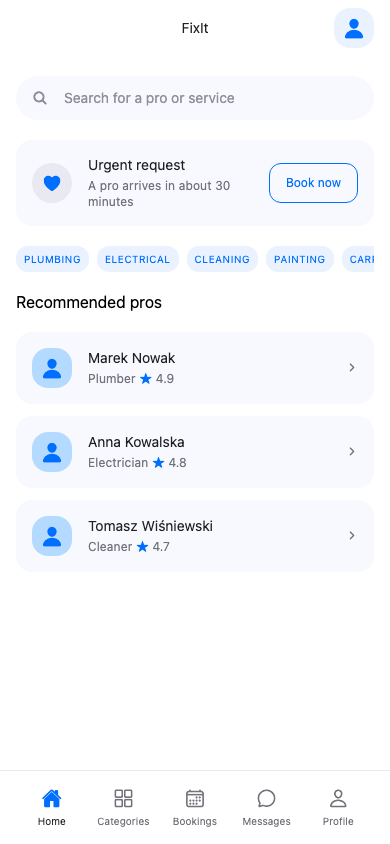
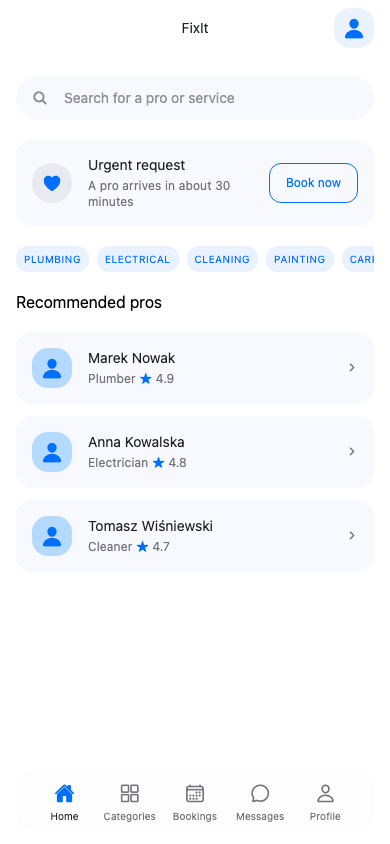
feat: float the TabBar as glass, and glass the Header back button
TabBar is now a Liquid Glass pill that floats above scroll content
(position: absolute) instead of a solid docked bar, so content is
visibly blurred through it while scrolling — the iOS 26 tab-bar
pattern. Header's back chevron sits in a small glass circle.

Screens now reserve bottom clearance via useFloatingTabBarClearance()
so cards and the sticky "Book appointment" button never end up hidden
under the floating bar.

diff --git a/src/components/TabBar/TabBar.tsx b/src/components/TabBar/TabBar.tsx
@@ -1,9 +1,10 @@
 import { Ionicons } from '@expo/vector-icons';
 import type { ComponentProps } from 'react';
-import { Pressable, StyleSheet, Text, View } from 'react-native';
+import { Pressable, StyleSheet, Text } from 'react-native';
 import { useSafeAreaInsets } from 'react-native-safe-area-context';
 
-import { colors, spacing, typography } from '@/theme';
+import { GlassSurface } from '@/components/GlassSurface';
+import { colors, radii, shadows, spacing, typography } from '@/theme';
 
 type IconName = ComponentProps<typeof Ionicons>['name'];
 
@@ -20,12 +21,25 @@ export type TabBarProps = {
   onChange: (key: string) => void;
 };
 
+/** Fixed content height of the bar (icon + gap + label), safe-area padding excluded. */
+const BAR_HEIGHT = 62;
+const BOTTOM_OFFSET = spacing.sm;
+
+/** How much bottom padding a screen needs so content doesn't scroll under the floating bar. */
+export function useFloatingTabBarClearance() {
+  const insets = useSafeAreaInsets();
+  return insets.bottom + BOTTOM_OFFSET + BAR_HEIGHT + spacing.md;
+}
+
+/** Floats as a Liquid Glass pill above scrollable content, iOS 26 tab-bar style. */
 export function TabBar({ items, activeKey, onChange }: TabBarProps) {
-  // Extra padding for the iOS home indicator; Android's inset is enough alone.
   const insets = useSafeAreaInsets();
 
   return (
-    <View style={[styles.container, { paddingBottom: Math.max(insets.bottom, spacing.md) }]}>
+    <GlassSurface
+      style={[styles.container, { bottom: insets.bottom + BOTTOM_OFFSET }]}
+      glassEffectStyle="regular"
+    >
       {items.map((item) => {
         const isActive = item.key === activeKey;
         return (
@@ -47,18 +61,21 @@ export function TabBar({ items, activeKey, onChange }: TabBarProps) {
           </Pressable>
         );
       })}
-    </View>
+    </GlassSurface>
   );
 }
 
 const styles = StyleSheet.create({
   container: {
+    position: 'absolute',
+    left: spacing.md,
+    right: spacing.md,
+    height: BAR_HEIGHT,
     flexDirection: 'row',
-    borderTopWidth: StyleSheet.hairlineWidth,
-    borderTopColor: colors.surfaceMedium,
-    backgroundColor: colors.white,
-    paddingTop: spacing.md,
+    borderRadius: radii.lg,
+    paddingVertical: spacing.sm,
     paddingHorizontal: spacing.md,
+    ...shadows.raised,
   },
   tab: {
     flex: 1,

diff --git a/src/components/Header/Header.tsx b/src/components/Header/Header.tsx
@@ -2,7 +2,8 @@ import { Ionicons } from '@expo/vector-icons';
 import type { ReactNode } from 'react';
 import { Pressable, StyleSheet, Text, View } from 'react-native';
 
-import { colors, spacing, typography } from '@/theme';
+import { GlassSurface } from '@/components/GlassSurface';
+import { colors, radii, shadows, spacing, typography } from '@/theme';
 
 export type HeaderProps = {
   title: string;
@@ -23,7 +24,9 @@ export function Header({ title, onBackPress, rightElement }: HeaderProps) {
             hitSlop={8}
             onPress={onBackPress}
           >
-            <Ionicons name="chevron-back" size={20} color={colors.textPrimary} />
+            <GlassSurface style={styles.backButton}>
+              <Ionicons name="chevron-back" size={18} color={colors.textPrimary} />
+            </GlassSurface>
           </Pressable>
         ) : null}
       </View>
@@ -50,6 +53,18 @@ const styles = StyleSheet.create({
   side: {
     width: SIDE_WIDTH,
     justifyContent: 'center',
+  },
+  backButton: {
+    width: 32,
+    height: 32,
+    borderRadius: radii.round,
+    alignItems: 'center',
+    justifyContent: 'center',
+    // The glass fill alone is nearly invisible on a white header — a rim
+    // makes the pill readable even where there's nothing behind it to blur.
+    borderWidth: StyleSheet.hairlineWidth,
+    borderColor: colors.surfaceMedium,
+    ...shadows.card,
   },
   rightSide: {
     alignItems: 'flex-end',

diff --git a/src/screens/HomeScreen.tsx b/src/screens/HomeScreen.tsx
@@ -8,12 +8,14 @@ import { CategoryList } from '@/components/CategoryList';
 import { Header } from '@/components/Header';
 import { ProCard } from '@/components/ProCard';
 import { SearchBar } from '@/components/SearchBar';
+import { useFloatingTabBarClearance } from '@/components/TabBar';
 import { categories, recommendedPros } from '@/data/mockData';
 import { useResponsiveLayout } from '@/hooks/useResponsiveLayout';
 import { colors, radii, spacing, typography } from '@/theme';
 
 export function HomeScreen() {
   const { contentWidth, cardWidth } = useResponsiveLayout();
+  const tabBarClearance = useFloatingTabBarClearance();
   const [query, setQuery] = useState('');
   const [selectedCategoryId, setSelectedCategoryId] = useState<string>();
 
@@ -21,7 +23,9 @@ export function HomeScreen() {
     <View style={styles.screen}>
       <Header title="FixIt" rightElement={<Avatar />} />
 
-      <ScrollView contentContainerStyle={styles.scrollContent}>
+      <ScrollView
+        contentContainerStyle={[styles.scrollContent, { paddingBottom: tabBarClearance }]}
+      >
         <View style={[styles.content, { width: contentWidth }]}>
           <SearchBar
             value={query}
@@ -70,7 +74,6 @@ const styles = StyleSheet.create({
   },
   scrollContent: {
     alignItems: 'center',
-    paddingBottom: spacing.xl,
   },
   content: {
     gap: spacing.lg,

diff --git a/src/screens/CategoriesScreen.tsx b/src/screens/CategoriesScreen.tsx
@@ -4,19 +4,23 @@ import { ScrollView, StyleSheet, Text, View } from 'react-native';
 import { Header } from '@/components/Header';
 import { ListItem } from '@/components/ListItem';
 import { SearchBar } from '@/components/SearchBar';
+import { useFloatingTabBarClearance } from '@/components/TabBar';
 import { categories } from '@/data/mockData';
 import { useResponsiveLayout } from '@/hooks/useResponsiveLayout';
 import { colors, spacing, typography } from '@/theme';
 
 export function CategoriesScreen() {
   const { contentWidth, cardWidth } = useResponsiveLayout();
+  const tabBarClearance = useFloatingTabBarClearance();
   const [query, setQuery] = useState('');
 
   return (
     <View style={styles.screen}>
       <Header title="Categories" onBackPress={() => {}} />
 
-      <ScrollView contentContainerStyle={styles.scrollContent}>
+      <ScrollView
+        contentContainerStyle={[styles.scrollContent, { paddingBottom: tabBarClearance }]}
+      >
         <View style={[styles.content, { width: contentWidth }]}>
           <SearchBar value={query} onChangeText={setQuery} placeholder="Search categories" />
 
@@ -42,7 +46,6 @@ const styles = StyleSheet.create({
   },
   scrollContent: {
     alignItems: 'center',
-    paddingBottom: spacing.xl,
   },
   content: {
     gap: spacing.md,

diff --git a/src/screens/ProDetailsScreen.tsx b/src/screens/ProDetailsScreen.tsx
@@ -7,12 +7,14 @@ import { ListItem } from '@/components/ListItem';
 import { ProCard } from '@/components/ProCard';
 import { StarRating } from '@/components/StarRating';
 import { Tag } from '@/components/Tag';
+import { useFloatingTabBarClearance } from '@/components/TabBar';
 import { pricingList, reviews } from '@/data/mockData';
 import { useResponsiveLayout } from '@/hooks/useResponsiveLayout';
 import { colors, spacing, typography } from '@/theme';
 
 export function ProDetailsScreen() {
   const { contentWidth, cardWidth } = useResponsiveLayout();
+  const tabBarClearance = useFloatingTabBarClearance();
 
   return (
     <View style={styles.screen}>
@@ -53,7 +55,7 @@ export function ProDetailsScreen() {
         </View>
       </ScrollView>
 
-      <View style={styles.footer}>
+      <View style={[styles.footer, { paddingBottom: tabBarClearance }]}>
         <Button title="Book appointment" />
       </View>
     </View>
@@ -92,6 +94,5 @@ const styles = StyleSheet.create({
   footer: {
     paddingHorizontal: spacing.md,
     paddingTop: spacing.sm,
-    paddingBottom: spacing.xl,
   },
 });
